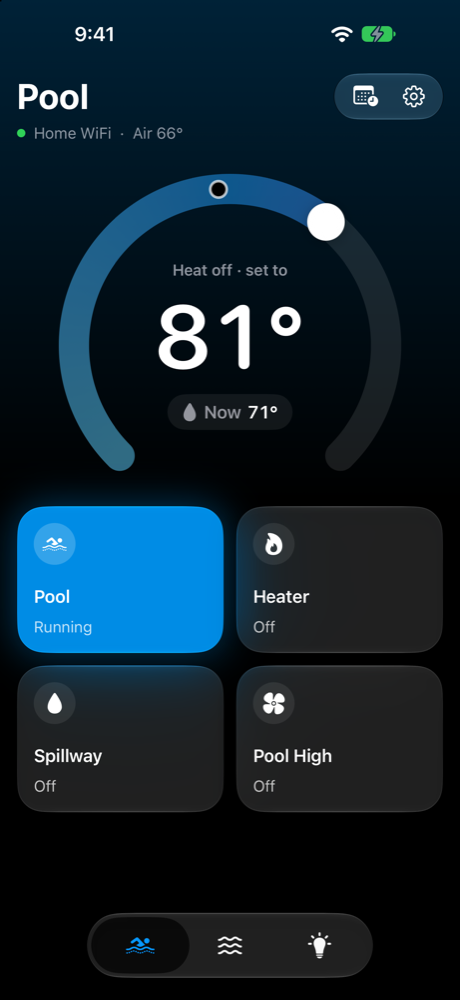
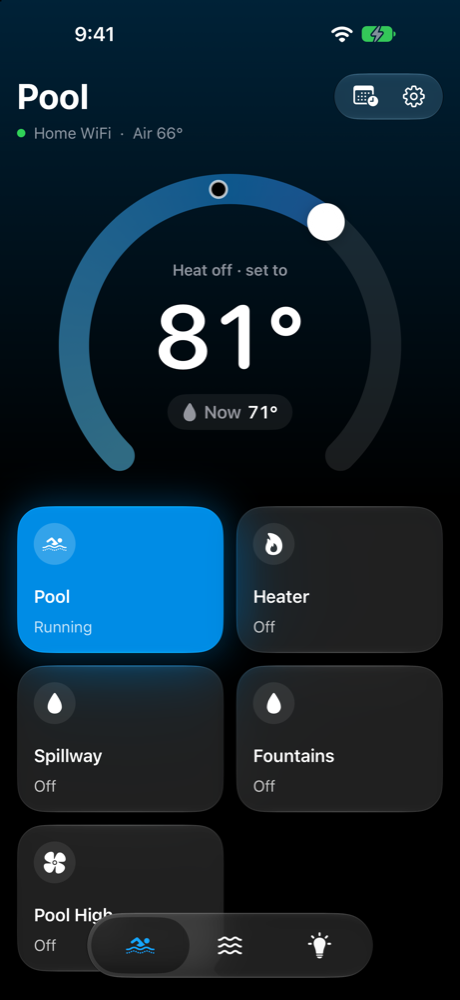
Add Fountains to the Pool tab

Changed region(s): [[0.0304, 0.806, 0.487, 0.992], [0.5478, 0.744, 0.7304, 0.775], [0.5783, 0.682, 0.6391, 0.713]]

diff --git a/Poolside/Views/DashboardView.swift b/Poolside/Views/DashboardView.swift
@@ -192,10 +192,10 @@ private struct BodyControls: View {
     @Environment(PoolStore.self) private var store
 
 
-    /// Pool gets the spillway and high speed; the spa gets the air blower.
+    /// Pool gets the spillway, fountains and high speed; the spa gets the air blower.
     private var extras: [Circuit] {
         which == .pool
-            ? [store.spillway, store.poolHigh].compactMap { $0 }
+            ? [store.spillway, store.fountains, store.poolHigh].compactMap { $0 }
             : [store.airBlower].compactMap { $0 }
     }
 

diff --git a/Poolside/Model/PoolStore.swift b/Poolside/Model/PoolStore.swift
@@ -243,6 +243,7 @@ final class PoolStore {
     }
     var poolHigh: Circuit? { named("pool high", "high speed") }
     var airBlower: Circuit? { named("blower") }
+    var fountains: Circuit? { named("fountain", "water feature") }
     var firePit: Circuit? { named("fire") }
 
     var lights: [Circuit] {

diff --git a/README.md b/README.md
@@ -19,7 +19,7 @@ Screenshots from the simulator in demo mode (sample data, see below).
 <img src="docs/screens/signin-light.png" width="200" alt="Sign in">
 </p>
 
-- **Pool and Spa** each have a dial for the heat target. Drag the knob; the big number is what you're setting and the chip under it is the water now. A small marker on the ring shows the current temperature. Below are on/off switches: pool, heater, spillway and pool high; or spa, heater and air blower.
+- **Pool and Spa** each have a dial for the heat target. Drag the knob; the big number is what you're setting and the chip under it is the water now. A small marker on the ring shows the current temperature. Below are on/off switches: pool, heater, spillway, fountains and pool high; or spa, heater and air blower.
 - **Colors** stay blue. A tab turns warm only while its heater is actually firing, not just switched on.
 - **Lights** is a 2x2 grid with the fire pit. Long-press a color light to pick a color or show. The controller sets every color light at once.
 - **Schedule** (calendar button, top right) lists the controller's schedules. Tap to edit, + to add, swipe to delete.
